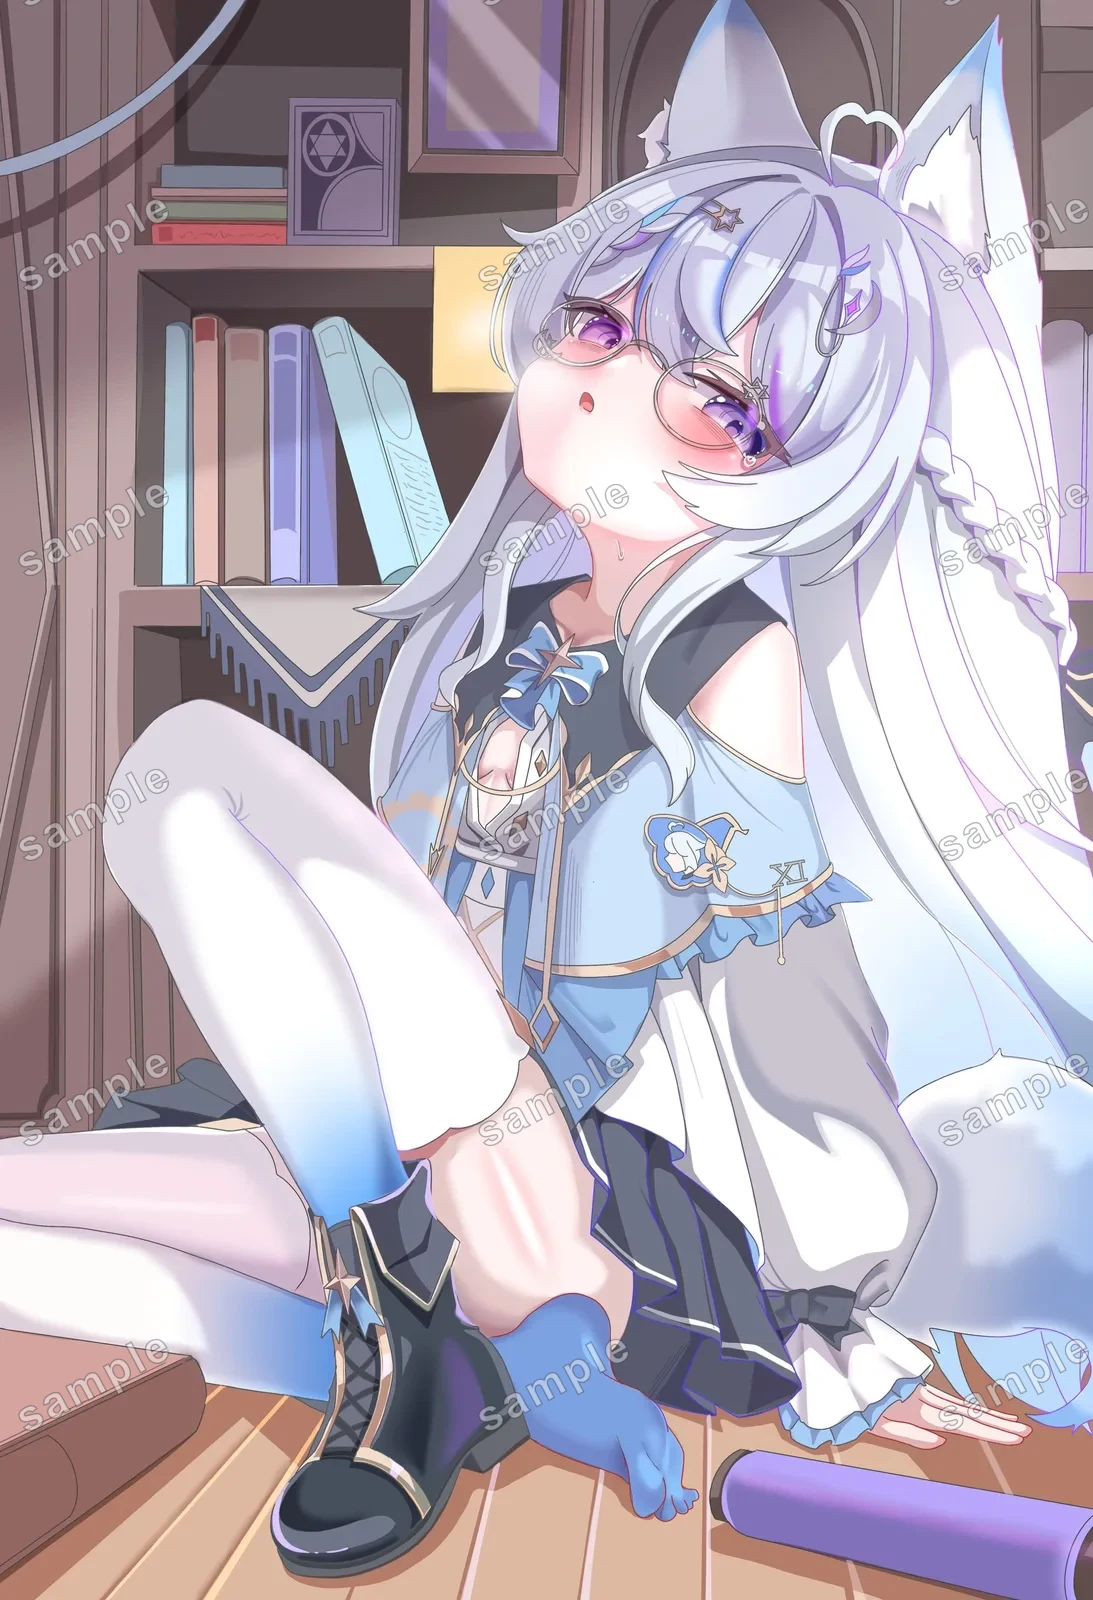
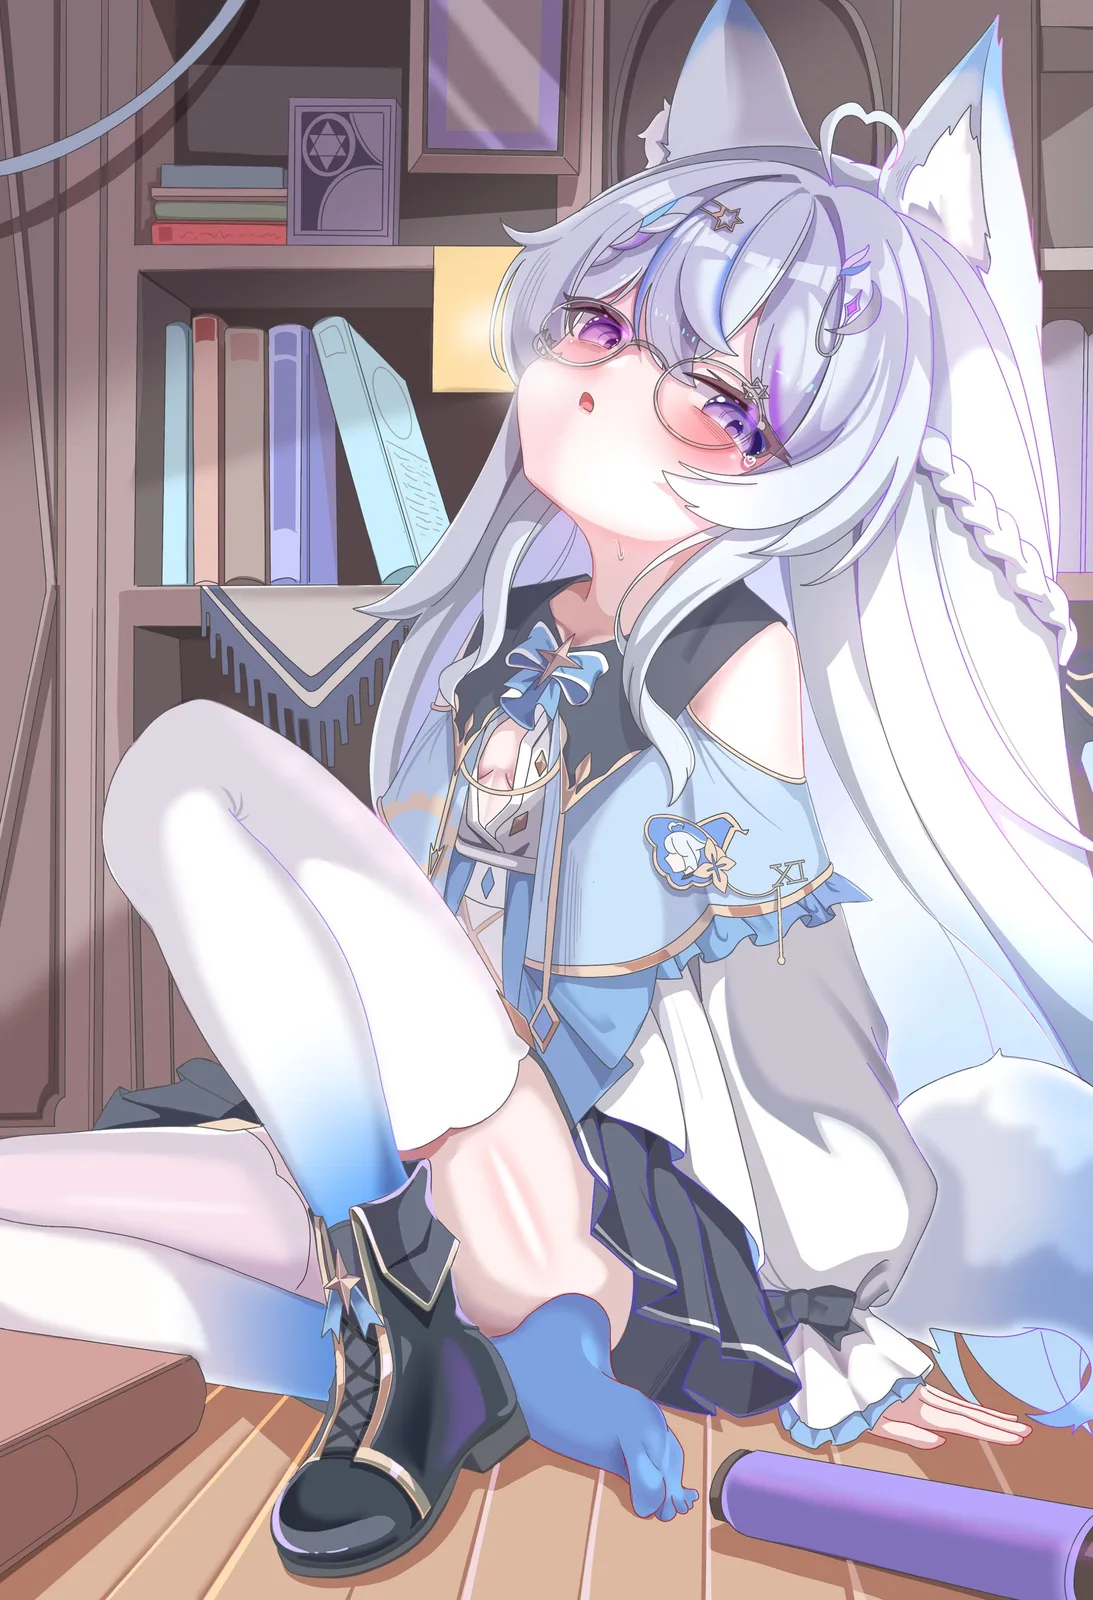
签筒：加入联动角色「天涯」，芳基胺改为联动；图池补 9 张
- 新条目 src/content/draw/tianya.md：朋友的角色（角色名与设主同名 = 天涯），
  只进签筒与图池，不进世界观档案；立绘取自其设定图，压成 860×1147 / 175KB
- 芳基胺：ownership 原创 → 联动（设主芳基胺），与「只存在抽签池子」一致
- 图池 +9 张（170 张）：
  · 天涯 4 张（设定图 71KB / 白裙色稿 139KB / 撑伞 144KB / 立绘 380KB），归属=联动、设主=天涯
  · 淼渺×天涯 联动表情包 5 张（与天涯_13/14/15/16_1/16_2，65–100KB）
- 图池脚本登记「天涯」为联动角色（tools/build-gallery-pool.mjs）
- 页面上仍是站上现成的页面叠加水印（水塔夜谈 · @water2H2O），另存原图不带

自检：构建 160 页；抽签回归通过；粗体/设定页自检通过

diff --git a/src/content/draw/tianya.md b/src/content/draw/tianya.md
@@ -1,0 +1,32 @@
+---
+name: 天涯
+kind: 角色
+summary: 白发蓝眼、一身白裙配蓝丝带的少女。手里总有一把伞或一根杖，身周飘着细碎的雨点与花——安安静静的，像下过雨的天。
+ownership: 联动
+owner: 天涯
+themeColor: '#A8CDEE'
+portrait: '../../assets/oc/characters/tianya.webp'
+pronouns: 女
+tags: ['天涯', '白发', '蓝丝带', '伞', '联动']
+canon: draft
+order: 20
+---
+
+## 基础信息
+
+- **姓名**：天涯
+- **设主**：天涯（角色名与设主同名）
+- **性别**：女
+
+## 外观简介
+
+- **发色**：白色，长发及腰，发间编着花与深色的发饰
+- **眼睛**：浅蓝色
+- **特征**：一身白色长裙，腰间与背后是大幅的蓝色丝带；肩上披着薄纱
+- **随身**：一把白色带蓝边的伞（也可作为杖），伞顶是一颗浅色的星
+- **配色**：整体是白与浅蓝，点缀淡粉与浅金
+
+## 其他
+
+- 这一位只出现在**签筒**与**图池**里，不在《水塔夜谈》的世界观档案中。
+- 本站只作收录与展示；角色版权归设主 **天涯** 所有。

diff --git a/src/content/draw/arylamine.md b/src/content/draw/arylamine.md
@@ -3,7 +3,8 @@ name: 芳基胺
 title: Arylamine
 kind: 角色
 summary: 风狼族少女。自幼能看见风的轨迹，却在崇尚骁勇抱团的族群中被视为异类 —— 某个黄昏，她安静地离开了族群，独自走进山林深处。
-ownership: 原创
+ownership: 联动
+owner: 芳基胺
 themeColor: '#EBA7B2'
 portrait: '../../assets/oc/characters/arylamine.webp'
 aliases: ['苯胺']
